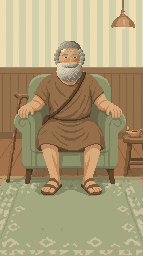
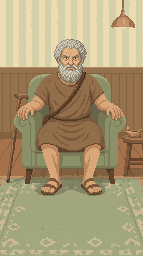
Trial: Schopenhauer's first scene back, the other four faces redrawn in its style (still faces)
Christopher preferred the first, freer Schopenhauer to the bust style. Socrates, Montaigne, Seneca and
Epictetus keep their scenes with only the person redrawn in that style (ElevenLabs, the first Schopenhauer
scene as reference); static_scene.py installs them with a still face until expression sheets are made.

Claude-Session: https://claude.ai/code/session_01CkNb4fKBKqzoVDQabCd3oK

diff --git a/ui/web/tools/art/seated_scene.py b/ui/web/tools/art/seated_scene.py
@@ -2,8 +2,7 @@
 own hand-tuned script, socrates_scene.py; these four follow its layout and timing).
 
 Each scene is an ElevenLabs generation (Nano Banana 2) made from the Socrates scene and the philosopher's
-bust: sources/<id>_seated_gen.jpg (Schopenhauer: the second run, whose prompt puts
-the Socrates scene's simple face and proportions first; the first run drew him like his photograph). pixelate.py puts it on its own 143 x 256 grid with 48 colours. The
+bust: sources/<id>_seated_gen.jpg. pixelate.py puts it on its own 143 x 256 grid with 48 colours. The
 expressions are edits of the generated face, placed from a few anchors read off each face (eye row and
 pupils, brow row and spans, mouth row and span):
     half / closed   lid over the eyes / one lash line
@@ -38,7 +37,7 @@ FRAMES = ("open", "half", "closed", "talk1", "talk2")
 # brow row and spans, mouth row and span (x0, x1); 'dark_beard' mouths are drawn in lip red to show
 FACES = {
     "montaigne":    dict(ey=60, lp=(65, 66), rp=(75, 76), lw=(64, 67), rw=(74, 77), by=57, lb=(63, 67), rb=(73, 77), my=69, mx=(67, 72), dark_beard=True),
-    "schopenhauer": dict(ey=58, lp=(65, 66), rp=(75, 76), lw=(64, 67), rw=(74, 77), by=56, lb=(63, 66), rb=(74, 77), my=66, mx=(67, 73), dark_beard=False, clean=True),
+    "schopenhauer": dict(ey=59, lp=(66, 66), rp=(75, 75), lw=(65, 67), rw=(74, 76), by=56, lb=(63, 66), rb=(75, 78), my=67, mx=(67, 74), dark_beard=False),
     "seneca":       dict(ey=57, lp=(65, 66), rp=(75, 76), lw=(64, 67), rw=(74, 77), by=55, lb=(63, 67), rb=(73, 77), my=68, mx=(67, 72), dark_beard=True),
     "epictetus":    dict(ey=57, lp=(65, 66), rp=(74, 75), lw=(64, 67), rw=(73, 76), by=54, lb=(63, 66), rb=(73, 76), my=67, mx=(67, 73), dark_beard=False),
 }
@@ -60,25 +59,6 @@ def colours(p, f):
     return dict(skin=skin, shade=mix(skin, (90, 55, 30), .22), deep=mix(skin, (60, 35, 20), .4), light=mix(skin, (255, 240, 220), .3),
                 pupil=pupil, dark=mix(pupil, skin, .35), brow=brow, forehead=forehead,
                 white=(242, 234, 216), lip=(150, 74, 54), inside=(86, 50, 34))
-
-
-def clean_skin(p, f, C):
-    """Flatten the speckle in the face's skin, as Socrates' face is hand-flattened: each skin-coloured pixel
-    takes the commonest skin colour of its 3 x 3 neighbourhood (eyes, brows, mouth and hair are not skin)."""
-    y0, y1 = f["by"] - 6, f["my"] + 3
-    x0, x1 = f["lw"][0] - 4, f["rw"][1] + 4
-    skin = np.array(C["skin"], float)
-    is_skin = lambda c: np.abs(np.asarray(c, float) - skin).sum() < 70
-    src = p.copy()
-    for y in range(y0, y1 + 1):
-        for x in range(x0, x1 + 1):
-            if not is_skin(src[y, x]):
-                continue
-            near = [tuple(src[j, i]) for j in range(y - 1, y + 2) for i in range(x - 1, x + 2) if is_skin(src[j, i])]
-            best = max(set(near), key=near.count)
-            if near.count(best) >= 5:
-                p[y, x] = best
-    return p
 
 
 def put(p, x, y, c):
@@ -186,8 +166,6 @@ def build(pid):
     nw, nh, ox, oy = find_grid(src, [GRID[0]], [GRID[1]])
     base = np.asarray(quantize(sample(src, nw, nh, ox, oy), 48)).copy()
     C = colours(base, f)
-    if f.get("clean"):
-        base = clean_skin(base, f, C)
     x0, x1 = min(f["lw"][0], f["lb"][0]) - 3, max(f["rw"][1], f["rb"][1]) + 3
     y0, y1 = f["by"] - 3, f["my"] + 3
     P = (x0, y0, x1 - x0 + 1, y1 - y0 + 1)

diff --git a/ui/web/tools/art/static_scene.py b/ui/web/tools/art/static_scene.py
@@ -1,0 +1,42 @@
+"""Trial scenes with no expressions yet: sources/<id>_restyled_gen.jpg (the persona's chat scene with the
+face redrawn in the style of the first Schopenhauer scene, ElevenLabs) on the usual 143 x 256 grid.
+
+faces.png repeats the scene's own face in every mood and frame, so the page shows a still face (no
+blinks, no talking) until a face sheet is made for the new art.
+
+    .venv/bin/python ui/web/tools/art/static_scene.py socrates montaigne seneca epictetus
+"""
+import json
+import sys
+from pathlib import Path
+
+import numpy as np
+from PIL import Image
+
+HERE = Path(__file__).resolve().parent
+sys.path.insert(0, str(HERE))
+from pixelate import find_grid, quantize, sample  # noqa: E402
+
+ROOT = HERE.parents[3]
+GRID = (143, 256)
+
+
+def build(pid):
+    out = ROOT / f"ui/web/assets/personas/{pid}/full"
+    meta = json.loads((out / "faces.json").read_text())
+    src = np.asarray(Image.open(HERE / f"sources/{pid}_restyled_gen.jpg").convert("RGB")).astype(float)
+    nw, nh, ox, oy = find_grid(src, [GRID[0]], [GRID[1]])
+    base = np.asarray(quantize(sample(src, nw, nh, ox, oy), 48))
+    P = meta["patch"]
+    face = base[P["y"]:P["y"] + P["h"], P["x"]:P["x"] + P["w"]]
+    sheet = np.tile(face, (len(meta["moods"]), len(meta["frames"]), 1))
+    Image.fromarray(base).save(out / "scene.png", optimize=True)
+    Image.fromarray(sheet).save(out / "faces.png", optimize=True)
+    meta.update(source=f"{pid}_restyled_gen.jpg", static=True)
+    (out / "faces.json").write_text(json.dumps(meta, indent=2) + "\n")
+    print(pid, f"grid {nw}x{nh} offset ({ox}, {oy})")
+
+
+if __name__ == "__main__":
+    for pid in sys.argv[1:]:
+        build(pid)

diff --git a/CLAUDE.md b/CLAUDE.md
@@ -16,7 +16,7 @@ The design doc is the source of truth for scope, contracts and decisions. Read t
 - Accounts (design doc 7.10, D8 superseded on Nov 23, 2026): nickname + passcode (`app/auth.py`); users, conversation rows and notes in `app/store.py` (Postgres on Vercel, memory locally); messages stay in each thread's checkpoint. One conversation = one philosopher and one thread; the pause (FR-32) belongs to the user and covers all their conversations. The web app's Conversations tab lists them by philosopher.
 - Persona mood (design doc 7.5, `app/mood.py`): the voice model opens each reply with `<mood label intensity/>`; the tag is stripped before the quote check, smoothed across turns, stored on the reply and sent as a `mood` event. From tier 2 up, at an exit and in support mode it is locked at attentive (FR-34). The scene sprite shows it; read-aloud tone follows it (7.6). Each persona config lists its `moods`.
 - Visible thinking (design doc 7.8, FR-18, FR-36, ADR-16, `app/thinking.py`): the voice call asks for summarized adaptive thinking; the voice yields summary pieces as `Thought`, the persona node buffers them into sentences, drops any that name passages, prompts, personas, tiers or quote tags, strips quotation marks and sends each as a `thinking` event. None from tier 2 up or on the way back from support mode. Stored per turn in state and logged in the eval CSV (`thinking` column, NFR-14).
-- Full-screen chat (all five; `kbtest.html` is the layout's test page): `ui/web/assets/personas/<id>/full/` holds the scene (143 × 256), the face sheet and `faces.json`. Socrates' comes from `ui/web/tools/art/sources/socrates_seated_gen.webp` via `pixelate.py` and `socrates_scene.py` (hand-tuned face); the other four are ElevenLabs generations from his scene and each bust (`sources/<id>_seated_gen.jpg`) built by `seated_scene.py` (face anchors per persona). The page draws the face patch (blinks, talking, moods behind a blink), floats the bubbles over the scene with the pixel dissolve, lifts the scene above the keyboard, and shows the thought bubble over the head. All five share the armchair, striped wall, wainscot and rug; each nook has its own props.
+- Full-screen chat (all five; `kbtest.html` is the layout's test page): `ui/web/assets/personas/<id>/full/` holds the scene (143 × 256), the face sheet and `faces.json`. Trial art (Nov 24): Schopenhauer's first generation (`sources/schopenhauer_seated_gen.jpg`, faces by `seated_scene.py`) set the style; the other four are their earlier scenes with the face redrawn in that style (`sources/<id>_restyled_gen.jpg`, `static_scene.py`: a still face, no expression sheet yet). The earlier bust-style art is rebuilt by `socrates_scene.py` and `seated_scene.py`. The page draws the face patch (blinks, talking, moods behind a blink), floats the bubbles over the scene with the pixel dissolve, lifts the scene above the keyboard, and shows the thought bubble over the head. All five share the armchair, striped wall, wainscot and rug; each nook has its own props.
 - Home: a flat (no perspective) café covers the screen (`ui/web/assets/home_pano.png`, 1152 × 2184 on the sprites' 12 px grid; `ui/web/tools/art/home_pano.py` rebuilds it from `tools/art/sources/home_cafe_gen.jpg` and adds the side tables the sprites' cups rest on). Each philosopher sits in a nook furnished like his chat scene; `HOME_SEATS` in `template.html` places the team's sprites. The pixel wordmark (`assets/logo_philocafe.png`, `tools/art/logo.py`, Pixelify Sans) floats at the top; the tab bar is a wooden plank (`assets/plank.png`) with icons only.
 - Settings tab and language: the fourth bottom tab holds Sign out, Delete my café card (FR-45) and English / 中文. The café's own words go through `t()` with the `ZH` dictionary and `PH_ZH` (philosophers' names, introductions, greetings, starters, demo lines) in `template.html`; a new user-facing string needs a `ZH` entry. Changing the language reloads the page. Chinese glyphs use Zpix (`ui/web/assets/fonts/`, free for education use, may not be subset or converted; see its README).
 - Suggested next messages (design doc 7.9, FR-46, `app/suggest.py`): the voice model ends each reply with a `<next>` block of two or three things the user might say; it is held back from the stream, sent as a `suggestions` event and stored on the reply. Tapping one sends it as an ordinary message. None from tier 2 up, at an exit or in support mode.
